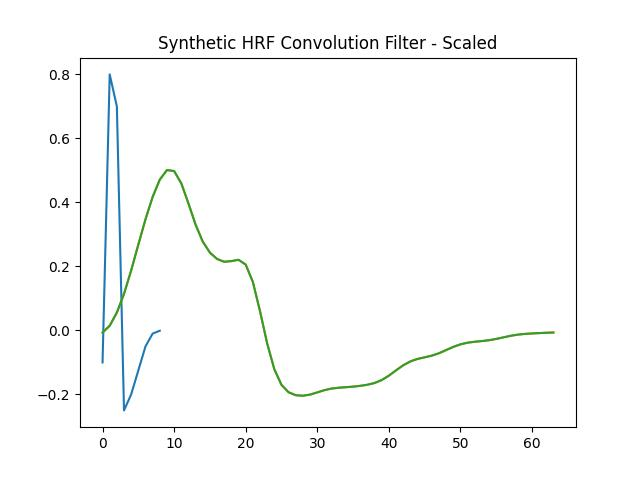
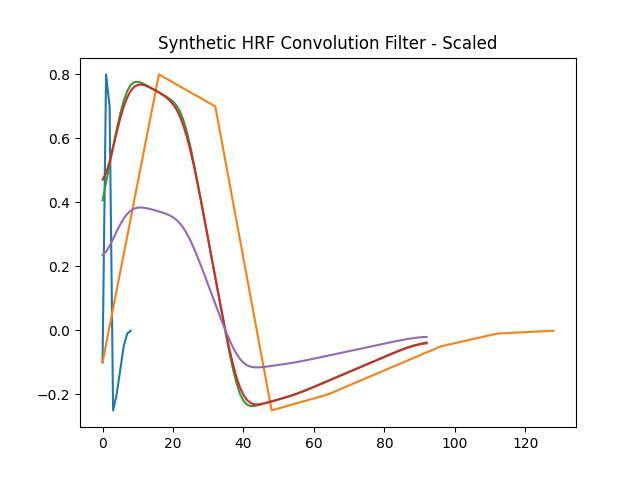
Updated HRF filter creation to overincrease filter then compress using a box-car technique

diff --git a/scripts/NIRS/convolver.py b/scripts/NIRS/convolver.py
@@ -1,5 +1,7 @@
-import mne, random
+import mne, random, statistics
 import numpy as np
+from mne_nirs.preprocessing import peak_power, scalp_coupling_index_windowed
+from mne_nirs.visualisation import plot_timechannel_quality_metric
 from glob import glob
 from matplotlib import pyplot as plt
 from scipy.ndimage import gaussian_filter
@@ -53,16 +55,10 @@ class convolver:
 
     def convolve_hrf(self, raw_nirx):
         raw_nirx.load_data()
-        raw_sfreq = raw_nirx.info['sfreq']
-        raw_signal = raw_nirx.get_data('all')
         convolution = lambda nirx_raw : signal.fftconvolve(nirx_raw, self.filter, mode = 'same')
-
-        convolved_nirx = raw_nirx.apply_function(convolution)
-        convolved_signal = convolved_nirx.get_data('all')
-
-        self.compare(raw_signal[0,:300], 'Raw Signal', convolved_signal[0, :300], 'Convolved Signal')
+        return raw_nirx.apply_function(convolution)
     
-    def compare(self, first_signal, first_title, second_signal, second_title):
+    def plot(self, first_signal, first_title, second_signal, second_title):
         x = [number for number in range(first_signal.shape[0])]
 
         figure, axis = plt.subplots(2, 1)
@@ -73,11 +69,43 @@ class convolver:
         axis[1].plot(x, second_signal)
         axis[1].set_title(second_title)
 
-        plt.show()
-    
+        plt.savefig('signal_conversion.jpeg')
+
+    def compare(self, raw_nirx, convolved_nirx):
+
+        raw_od = mne.preprocessing.nirs.optical_density(raw_nirx)
+        raw_sci = mne.preprocessing.nirs.scalp_coupling_index(raw_od)
+
+        convolved_od = mne.preprocessing.nirs.optical_density(convolved_nirx)
+        convolved_sci = mne.preprocessing.nirs.scalp_coupling_index(convolved_od)
+
+        figure, axis = plt.subplots(2, 1)
+
+        axis[0].hist(raw_sci)
+        axis[0].set_title('Raw Scalp Coupling Index')
+
+        axis[1].hist(convolved_sci)
+        axis[1].set_title('Convolved Scalp Coupling Index')
+
+        plt.savefig('convolution_sci.jpeg')
+
+        raw_od, scores, times = peak_power(raw_od, time_window=10)
+        figure = plot_timechannel_quality_metric(raw_od, scores, times, threshold=0.1)
+        plt.savefig('raw_powerpeak.jpeg')
+
+        convolved_od, scores, times = peak_power(convolved_od, time_window=10)
+        figure = plot_timechannel_quality_metric(convolved_od, scores, times, threshold=0.1)
+        plt.savefig('convolution_powerpeak.jpeg')
+
     def test(self):
         self.load()
-        self.convolve_hrf(self.task_scans[0])
+
+        copy_nirx = self.task_scans[2].copy()
+        copy_nirx.load_data()
+        convolved_nirx = self.convolve_hrf(self.task_scans[2])
+        self.compare(copy_nirx, convolved_nirx)
+
+
 
 class HRF():
 
@@ -103,106 +131,37 @@ class HRF():
 
         # Calculate number of samples per hemodynamic response function
         # Number of seconds  per HRF (12 seconds/HRF) times samples per second
-        hrf_samples = 64 #round(12 * self.freq, 2)
+        hrf_samples = round(12 * self.freq, 2)
 
         print("Expanding filter")
-        self.filter = self.interpolate(self.filter, hrf_samples) 
+        while len(self.filter) < hrf_samples:
+            self.filter = expand(self.filter) 
+
+        plt.plot(self.filter)
+        plt.title('Synthetic HRF Convolution Filter')
+        plt.savefig('synthetic_hrf_0.jpeg')
+
+        window = 2
+        while len(self.filter) > hrf_samples:
+            self.filter = [statistics.mean(self.filter[ind:ind+window]) for ind in range(len(self.filter) - window)]
  
+        plt.plot(self.filter)
+        plt.title('Synthetic HRF Convolution Filter')
+        plt.savefig('synthetic_hrf_1.jpeg')
+
         self.filter = smooth(self.filter)
 
         plt.plot(self.filter)
         plt.title('Synthetic HRF Convolution Filter')
-        plt.savefig('synthetic_hrf.jpeg')
+        plt.savefig('synthetic_hrf_2.jpeg')
 
         self.filter = np.array(self.filter)
-        #self.scalar = np.array([0.5])
-        #self.filter = np.convolve(self.filter, self.scalar, mode = 'same')
+        self.scalar = np.array([0.5])
+        self.filter = np.convolve(self.filter, self.scalar, mode = 'same')
 
         plt.plot(self.filter)
         plt.title('Synthetic HRF Convolution Filter - Scaled')
         plt.savefig('scaled-synthetic_hrf.jpeg')
-
-    def interpolate(self, filter, size):
-        old_size = len(filter)
-        indices = self.bin_index(filter)
-        
-        count = 0
-        while len(filter) < size:
-            # If we've fully interpolated, reset
-            if indices == []:
-                indices = self.bin_index(filter)
-            print(indices)
-            current_indice = indices[0]
-
-            # Interpolate and add value
-            if len(indices) > 1:
-                for next_index in sorted(indices):
-                    if next_index > current_indice:
-                        break
-
-                interpolation = (filter[current_indice] + filter[next_index])/2
-            else:
-                interpolation = filter[current_indice]
-
-            filter.insert(current_indice, interpolation)
-
-            del indices[0]
-
-            indices = [index + 1 if index > current_indice else index for index in indices]
-
-            count += 1# Increment count
-        print(f"Filter size increased from {old_size} to {len(filter)}")
-        return filter
-            
-    def bin_index(self, filter, indices = None, position = None, direction = -1):
-
-        # Define empty list basecase
-        if len(filter) == 0:
-            return []
-
-        if indices == None:
-            indices = [index for index in range(len(filter))]
-            position = int(len(filter)/2)
-        discovered_indices = [position]
-
-        # Define base cases for last position in filter recursion
-        if len(filter) == 1:
-            return discovered_indices
-        
-        # Figure out recursion logic using random number generator
-        if direction == 'random':
-            direction = random.uniform(0, 1)
-            if direction <=0.5:
-                direction = -1
-            else:
-                direction = 1
-            
-        # Calulcate metrics for next recusion
-        half_size = int(len(filter)/2)
-        quarter_size = int(len(filter)/4)
-
-        first_position = position + (direction*quarter_size) # Find position in original filter
-        if first_position == position:
-            first_position += direction
-
-        second_position = position - (direction*quarter_size)
-        if second_position == position:
-            second_position -= direction
-        print(f"Position: {position} | first - {first_position} - second - {second_position}")
-        
-        if direction == 1:
-            first_indices = self.bin_index(filter[half_size:], indices[half_size:], first_position)
-            second_indices = self.bin_index(filter[:(half_size - direction)], indices[:(half_size - direction)], second_position)
-        if direction == -1:    
-            first_indices = self.bin_index(filter[:half_size], indices[:half_size], first_position)
-            second_indices = self.bin_index(filter[(half_size - direction):], indices[(half_size - direction):], second_position)
-        # zip the indice together
-        for ind in range(min(len(first_indices), len(second_indices))):
-            discovered_indices += [first_indices[0], second_indices[0]]
-            del first_indices[0], second_indices[0]
-        discovered_indices += first_indices
-        discovered_indices += second_indices
-        return discovered_indices
 
         
 """

diff --git a/scripts/NIRS/unstack.py b/scripts/NIRS/unstack.py
@@ -2,7 +2,7 @@ import csv
 
 studys = ['CARE', 'P-CAT']
 
-filenames = ['wct_full_permuted_values_new_V2.csv', 'wct_full_permuted_values.csv', 'wct_full_permuted_values_new.csv', 'wct_full_permuted_values_new_1.csv']
+filenames = ['wct_full_permuted_values_new_V2.csv', 'wct_full_permuted_values.csv', 'wct_full_permuted_values_new.csv', 'wct_full_permuted_values_new_1.csv', 'wct_full_ses-0_permuted_values_pipeline.csv']
 
 
 def unstack_file(filename, folder, study, unstack = True, DOI = True, ROI = True):
@@ -19,7 +19,6 @@ def unstack_file(filename, folder, study, unstack = True, DOI = True, ROI = True
 		'Whole Brain': ['S3_D2 hbo', 'S4_D2 hbo', 'S1_D1 hbo', 'S2_D1 hbo', 'S2_D2 hbo', 'S5_D3 hbo', 'S6_D3 hbo', 'S7_D3 hbo', 'S7_D4 hbo', 'S8_D4 hbo']
 		}
 
-	channel_start = 3
 	try:
 		with open(folder + filename, 'r') as csv_file:
 			csv_contents = csv.reader(csv_file)
@@ -30,6 +29,14 @@ def unstack_file(filename, folder, study, unstack = True, DOI = True, ROI = True
 		
 	# LCBD NIRS typical header = ['', 'Parent', 'Child', 'Block', 'S1_D1 hbo', 'S2_D1 hbo', 'S2_D2 hbo', 'S3_D2 hbo', 'S4_D2 hbo', 'S5_D3 hbo', 'S6_D3 hbo', 'S7_D3 hbo', 'S7_D4 hbo', 'S8_D4 hbo']
 	header = data.pop(0)
+	if header[3] == 'Block':
+		block_column = 3
+		id_column = 1
+		channel_start = 4
+	else:
+		block_column = 2
+		id_column = 0
+		channel_start = 3
 
 	current_subject = None
 	total_blocks = 0
@@ -46,15 +53,15 @@ def unstack_file(filename, folder, study, unstack = True, DOI = True, ROI = True
 			datum.insert(0, 0)
 
 		dyad = False
-		parent = datum[1]
-		child = datum[2]
+		parent = datum[id_column]
+		child = datum[id_column + 1]
 
 		if parent[:-1] == child[:-1]: # Check if real dyad
 			dyad = True
 		if dyad == DOI: # Check if dyad status matches what we want to save
 			if f"{parent}-{child}" not in stacked_data.keys():# Check if new subject
 				stacked_data[f"{parent}-{child}"] = {} # Append new list if new
-			block = int(datum[3][-1])
+			block = int(datum[block_column][-1])
 			if block > total_blocks:
 				total_blocks = block
 			
@@ -67,7 +74,10 @@ def unstack_file(filename, folder, study, unstack = True, DOI = True, ROI = True
 				for region, channels_ind in ROIs.items():
 					average = 0
 					for channel_ind in channels_ind:
-						average += float(datum[channel_ind])
+						if datum[channel_ind] != '':
+							average += float(datum[channel_ind])
+						else:
+							print(f"Skipping {parent} {block} {region}")
 					stacked_data[f"{parent}-{child}"][block] += [average/len(channels_ind)]
 			
 				
@@ -111,7 +121,7 @@ def unstack_file(filename, folder, study, unstack = True, DOI = True, ROI = True
 	print(f"{new_filename} successfully created...")
 
 for study in studys:
-	folder = f'/data/perlman/moochie/analysis/{study}/Test_Analysis/'
+	folder = f'/storage1/fs1/perlmansusan/Active/moochie/analysis/{study}/Test_Analysis/'
 	for filename in filenames:
 		for unstack in [False, True]:
 			for DOI in [False, True]: # Dyads of interest (i.e,. false dyads or true dyads)

diff --git a/scripts/MRI/CNDA/cnda_sync.py b/scripts/MRI/CNDA/cnda_sync.py
@@ -164,6 +164,7 @@ class CNDA:
 
                     # Run BIDSkit on scans
                     dcm2bids_command = f'dcm2bids -d {bids_folder}sourcedata/{self.subject_id}/{self.exp_ind}/ -p sub-{self.subject_id} -s {self.exp_ind} -c {dcm2bids_config} -o {bids_folder}'
+                    print(f'\n\n\ndcm2bids command - {dcm2bids_command}\n\n\n')
                     process = subprocess.Popen(dcm2bids_command, shell=True, stdout=subprocess.PIPE)
                     process.wait()
 
